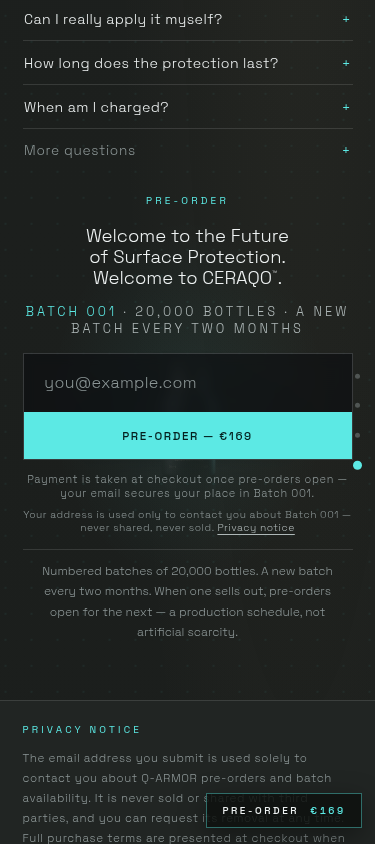
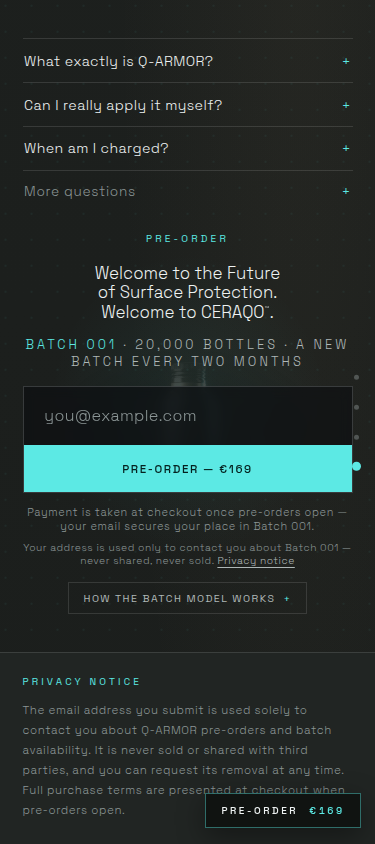
Progressive disclosure pass: post-dive at 4,047px (~4.8 mobile screens)
Extends the FAQ's collapsed-accordion pattern to the remaining bulk
blocks on phones — content is hidden, never removed, and desktop
stays fully expanded (toggles render only below 821px):

- Comparison detail rows behind "Compare line by line" (headline
  prices stay visible)
- Compatibility cloud shows 6 surfaces + "+9 more"
- Dependent-factors chips behind the asterisk "show"
- Batch explainer behind "How the batch model works"
- FAQ now lists 3 conversion-critical questions, 4 in "More questions"
- [hidden] display guard, final mobile spacing notch

390x844 post-dive: 13,057px (15.5 screens) at audit start ->
4,047px (4.80). QA: two new disclosure tests, 22/22 pass.

Claude-Session: https://claude.ai/code/session_01KBNgdLRVpeefJZbYuM7ETb

diff --git a/src/components/PostDive.tsx b/src/components/PostDive.tsx
@@ -131,10 +131,6 @@ const FAQ_PRIMARY: { q: string; a: string }[] = [
     a: 'Yes. Wipe on, buff, let it cure — about an hour in your driveway. No installer, no equipment, no experience.',
   },
   {
-    q: 'How long does the protection last?',
-    a: 'Up to 72 months, depending on preparation, environment and washing routine.',
-  },
-  {
     q: 'When am I charged?',
     a: PREORDER_URL
       ? 'At checkout, the moment you place your pre-order. Your order secures your spot in Batch 001.'
@@ -143,6 +139,10 @@ const FAQ_PRIMARY: { q: string; a: string }[] = [
 ];
 
 const FAQ_MORE: { q: string; a: string }[] = [
+  {
+    q: 'How long does the protection last?',
+    a: 'Up to 72 months, depending on preparation, environment and washing routine.',
+  },
   {
     q: 'How hard is the cured layer?',
     a: 'Up to 9H pencil hardness — engineered to outperform today’s premium ceramic coatings.',
@@ -156,6 +156,13 @@ const FAQ_MORE: { q: string; a: string }[] = [
     a: '20,000 numbered bottles per batch. A new batch every two months. When one sells out, pre-orders open for the next — a production schedule, not artificial scarcity.',
   },
 ];
+
+/**
+ * Mobile-collapsed blocks start open on desktop (there's room) and
+ * closed on phones. Collapsed content stays in the DOM (`hidden`),
+ * so nothing is deleted — it is revealed on tap.
+ */
+const startOpen = () => window.matchMedia('(min-width: 821px)').matches;
 
 function FaqItem({ q, a }: { q: string; a: string }) {
   return (
@@ -210,6 +217,10 @@ export default function PostDive() {
   const [email, setEmail] = useState('');
   const [joined, setJoined] = useState(false);
   const [error, setError] = useState<string | null>(null);
+  const [rowsOpen, setRowsOpen] = useState(startOpen);
+  const [fitOpen, setFitOpen] = useState(startOpen);
+  const [factorsOpen, setFactorsOpen] = useState(startOpen);
+  const [batchOpen, setBatchOpen] = useState(startOpen);
 
   useEffect(() => {
     const ctx = gsap.context(() => {
@@ -391,8 +402,19 @@ export default function PostDive() {
             Under suitable conditions, Q-ARMOR is designed to provide protection for up to 72
             months.<sup className="asterisk">*</sup>
           </p>
-          <div className="factors__label micro">* Dependent factors</div>
-          <ul className="chips chips--micro">
+          <div className="factors__label micro">
+            * Dependent factors
+            {!factorsOpen && (
+              <button
+                type="button"
+                className="expander expander--inline"
+                onClick={() => setFactorsOpen(true)}
+              >
+                show
+              </button>
+            )}
+          </div>
+          <ul className="chips chips--micro" hidden={!factorsOpen}>
             {FACTORS.map((f) => (
               <li key={f} className="chip">
                 {f}
@@ -417,7 +439,7 @@ export default function PostDive() {
               <strong className="compare__price">€169</strong>
               <span className="micro compare__per">per kit — protects up to two large vehicles</span>
             </header>
-            <dl className="compare__rows">
+            <dl className="compare__rows" hidden={!rowsOpen}>
               {COMPARE_ROWS.map((r) => (
                 <div key={r.label} className="compare__row">
                   <dt className="micro">{r.label}</dt>
@@ -432,7 +454,7 @@ export default function PostDive() {
               <strong className="compare__price compare__price--dim">€700–€2,500+</strong>
               <span className="micro compare__per">per vehicle at premium detailing shops</span>
             </header>
-            <dl className="compare__rows">
+            <dl className="compare__rows" hidden={!rowsOpen}>
               {COMPARE_ROWS.map((r) => (
                 <div key={r.label} className="compare__row">
                   <dt className="micro">{r.label}</dt>
@@ -442,6 +464,11 @@ export default function PostDive() {
             </dl>
           </article>
         </div>
+        {!rowsOpen && (
+          <button type="button" className="expander reveal" onClick={() => setRowsOpen(true)}>
+            Compare line by line
+          </button>
+        )}
         <p className="compare__note micro reveal">
           Professional pricing varies by market, vehicle size, preparation and coating tier.
         </p>
@@ -462,11 +489,18 @@ export default function PostDive() {
         <div id="s-fit" className="subblock reveal">
           <div className="subhead micro micro--cyan">Suitable For</div>
           <ul className="chips">
-            {SUITABLE.map((s) => (
-              <li key={s} className="chip">
+            {SUITABLE.map((s, i) => (
+              <li key={s} className="chip" hidden={!fitOpen && i >= 6}>
                 {s}
               </li>
             ))}
+            {!fitOpen && (
+              <li>
+                <button type="button" className="chip chip--more" onClick={() => setFitOpen(true)}>
+                  +{SUITABLE.length - 6} more
+                </button>
+              </li>
+            )}
           </ul>
         </div>
       </section>
@@ -573,7 +607,12 @@ export default function PostDive() {
             Your address is used only to contact you about Batch 001 — never shared, never
             sold. <a className="waitlist__legal-link" href="#privacy">Privacy notice</a>
           </p>
-          <div className="batchbox reveal">
+          {!batchOpen && (
+            <button type="button" className="expander expander--center reveal" onClick={() => setBatchOpen(true)}>
+              How the batch model works
+            </button>
+          )}
+          <div className="batchbox reveal" hidden={!batchOpen}>
             <p>
               Numbered batches of 20,000 bottles. A new batch every two months. When one
               sells out, pre-orders open for the next — a production schedule, not

diff --git a/src/styles/site.css b/src/styles/site.css
@@ -2010,6 +2010,69 @@ a.waitlist__btn {
   margin-top: 1.4rem;
 }
 
+/* Progressive disclosure: collapsed on phones, open on desktop.
+   Content is hidden, not removed — [hidden] must always win. */
+[hidden] {
+  display: none !important;
+}
+
+.expander {
+  display: inline-flex;
+  align-items: center;
+  gap: 0.5rem;
+  margin-top: 0.9rem;
+  background: none;
+  border: 1px solid var(--c-line);
+  color: var(--c-text-mid);
+  font-family: var(--font-sans);
+  font-size: 0.66rem;
+  font-weight: 400;
+  letter-spacing: 0.14em;
+  text-transform: uppercase;
+  padding: 0.55rem 0.9rem;
+  cursor: pointer;
+  transition: color 0.3s, border-color 0.3s;
+}
+
+.expander::after {
+  content: '+';
+  color: var(--c-cyan);
+}
+
+.expander:hover {
+  color: var(--c-cyan);
+  border-color: rgba(92, 233, 228, 0.4);
+}
+
+.expander--inline {
+  margin: 0 0 0 0.6rem;
+  padding: 0.2rem 0.5rem;
+  font-size: 0.52rem;
+}
+
+.expander--center {
+  margin-inline: auto;
+}
+
+.chip--more {
+  background: none;
+  font: inherit;
+  letter-spacing: inherit;
+  text-transform: inherit;
+  color: var(--c-cyan);
+  border-color: rgba(92, 233, 228, 0.35);
+  cursor: pointer;
+}
+
+/* Desktop starts open, so the toggles never render there — but if a
+   resize races the initial state, keep them hidden anyway. */
+@media (min-width: 821px) {
+  .expander,
+  .chip--more {
+    display: none;
+  }
+}
+
 /* Inline checklist chips replace the one-per-row list */
 .checklist {
   display: flex;
@@ -2106,14 +2169,15 @@ a.waitlist__btn {
 /* Mobile: spacing proportionate to a small screen, lists stay wrapped */
 @media (max-width: 820px) {
   .post .section {
-    padding-block: 1.7rem;
+    padding-block: 1.35rem;
   }
   .post .section__title {
     font-size: clamp(1.35rem, 6vw, 1.8rem);
   }
   .post .prose {
     font-size: 0.9rem;
-    margin-top: 0.8rem;
+    margin-top: 0.7rem;
+    line-height: 1.55;
   }
   .section__kickrow {
     margin-bottom: 0.8rem;
@@ -2125,7 +2189,7 @@ a.waitlist__btn {
     display: none;
   }
   .subblock {
-    margin-top: 1.4rem;
+    margin-top: 1.1rem;
   }
   .subhead {
     margin-bottom: 0.8rem;
@@ -2294,12 +2358,20 @@ a.waitlist__btn {
     font-size: 0.78rem;
   }
   .philline {
-    margin-top: 1.4rem;
-    font-size: 0.95rem;
+    margin-top: 1rem;
+    font-size: 0.92rem;
   }
   .launchline {
-    margin-top: 0.7rem;
-    font-size: 0.95rem;
+    margin-top: 0.5rem;
+    font-size: 0.92rem;
+  }
+  .checklist {
+    margin-top: 0.5rem;
+    gap: 0.3rem;
+  }
+  .checklist__item {
+    padding: 0.34rem 0.55rem;
+    font-size: 0.64rem;
   }
   .faq__q {
     padding: 0.78rem 0.1rem;
@@ -2310,11 +2382,14 @@ a.waitlist__btn {
     font-size: 0.85rem;
   }
   .waitlist {
-    padding-top: 1.4rem;
-    padding-bottom: 1.2rem;
+    padding-top: 1.2rem;
+    padding-bottom: 1rem;
   }
   .waitlist .section__title {
-    font-size: 1.15rem;
+    font-size: 1.05rem;
+  }
+  .batchline {
+    margin-top: 0.7rem;
   }
   .waitlist__form {
     margin-top: 1rem;
@@ -2340,6 +2415,9 @@ a.waitlist__btn {
   }
   .stepstrip {
     margin-top: 0.8rem;
+  }
+  #s-apply .section__title {
+    font-size: 1.1rem;
   }
   .legal {
     padding: 1.4rem var(--inset-x) 1.6rem;

diff --git a/qa/scrub.spec.ts b/qa/scrub.spec.ts
@@ -549,6 +549,48 @@ test('privacy: form links to the notice and the notice exists', async ({ page })
   await expect(page.locator('.footer__link')).toHaveAttribute('href', '#privacy');
 });
 
+test('disclosures: full content on desktop, collapsed-but-present on mobile', async ({ page }) => {
+  // Desktop (default viewport): everything open, no toggle buttons
+  await waitForStart(page);
+  await expect(page.locator('.compare__rows').first()).toBeVisible();
+  await expect(page.locator('#s-fit .chip')).toHaveCount(15);
+  await expect(page.locator('.batchbox')).toBeAttached();
+  await expect(page.locator('.expander')).toHaveCount(0);
+});
+
+test.describe('mobile disclosures', () => {
+  test.use({ viewport: { width: 390, height: 844 }, isMobile: true, hasTouch: true });
+
+  test('collapsed blocks expand on tap and content is never deleted', async ({ page }) => {
+    await waitForStart(page);
+
+    // Comparison detail rows behind "Compare line by line"
+    await page.locator('#s-value').scrollIntoViewIfNeeded();
+    await expect(page.locator('.compare__rows').first()).toBeHidden();
+    await page.locator('.expander', { hasText: 'Compare line by line' }).click();
+    await expect(page.locator('.compare__rows').first()).toBeVisible();
+    await expect(page.locator('.compare__row dd').first()).toContainText('Self-applied');
+
+    // Compatibility cloud: 6 visible + the rest behind "+9 more"
+    await page.locator('#s-fit').scrollIntoViewIfNeeded();
+    const visibleChips = page.locator('#s-fit .chip:visible');
+    expect(await visibleChips.count()).toBeLessThanOrEqual(8);
+    await page.locator('.chip--more').click();
+    await expect(page.locator('#s-fit .chip:visible')).toHaveCount(15);
+
+    // Dependent factors behind the asterisk "show"
+    await page.locator('.footnote').scrollIntoViewIfNeeded();
+    await page.locator('.expander--inline').click();
+    await expect(page.locator('.chips--micro .chip')).toHaveCount(6);
+
+    // Batch explainer behind "How the batch model works"
+    await page.locator('#s-access').scrollIntoViewIfNeeded();
+    await expect(page.locator('.batchbox')).toBeHidden();
+    await page.locator('.expander', { hasText: 'How the batch model works' }).click();
+    await expect(page.locator('.batchbox')).toContainText('not artificial scarcity');
+  });
+});
+
 /**
  * Item-10 audit: real phone widths. Each width is its own test so a
  * failure names the viewport, and each gets a fresh full load.
